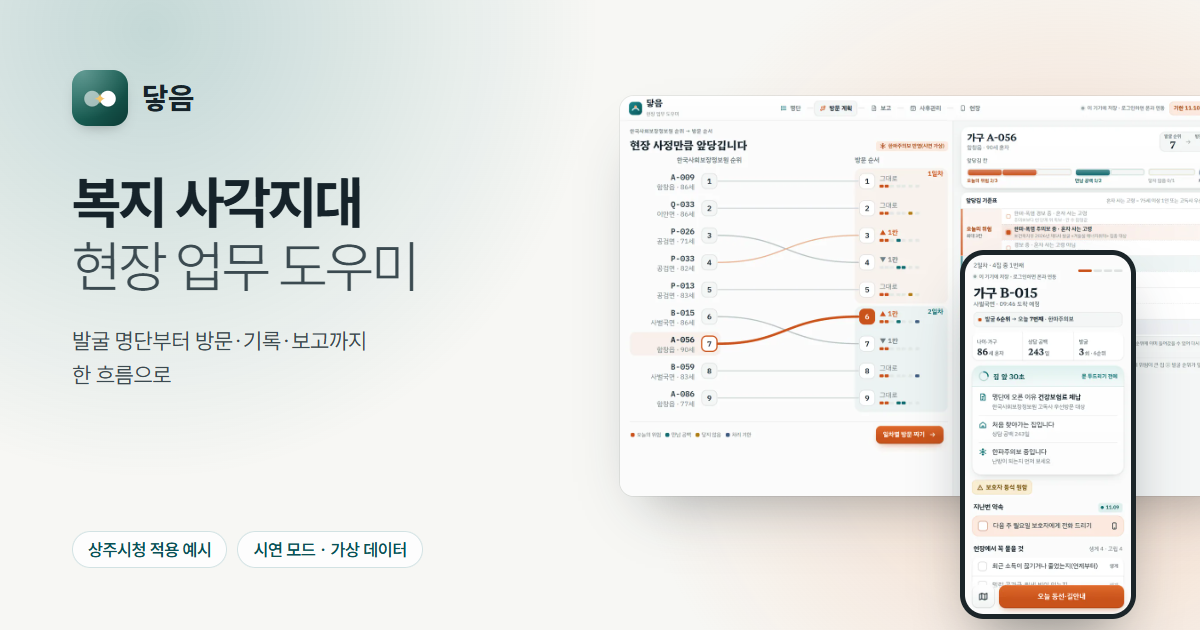
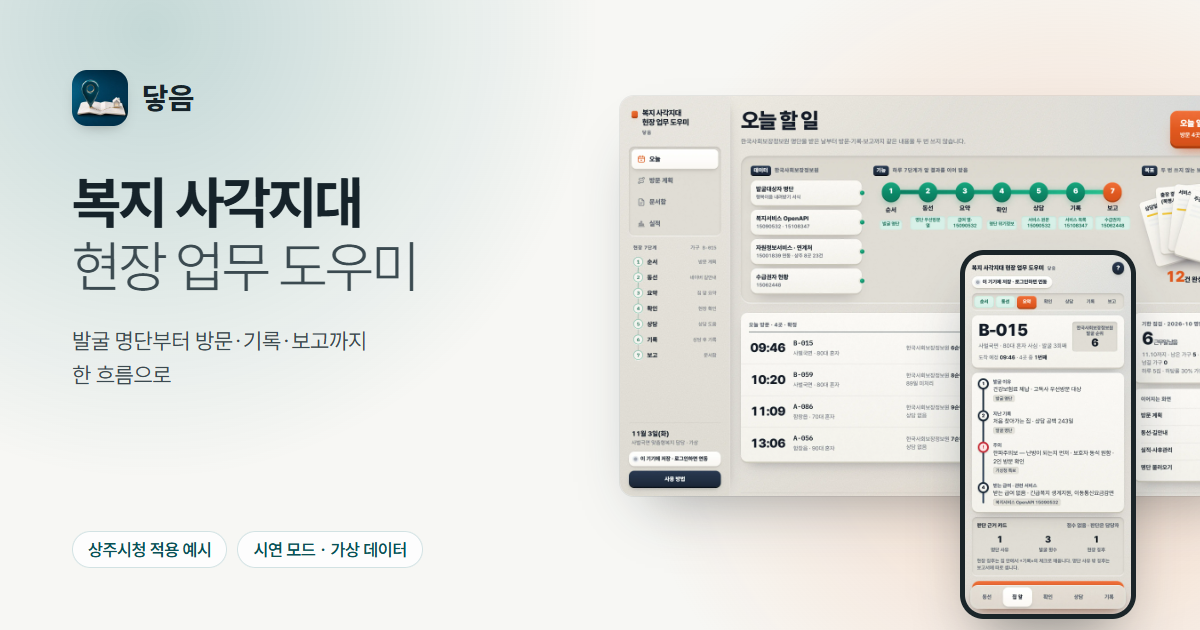
닿음 랜딩: 공유 대표 그림(OG)을 새 앱 아이콘 «찾아가는 길»로 갱신, 새 파일명으로 메신저 캐시 회피(주소·디자인 불변)

Changed region(s): [[0.4933, 0.1508, 1.0, 0.9952], [0.0617, 0.0905, 0.1233, 0.2111]]

diff --git a/daeum/index.html b/daeum/index.html
@@ -352,7 +352,7 @@ footer .row{display:flex;justify-content:space-between;gap:16px;flex-wrap:wrap;b
   .js .rv,.js .fade{opacity:1;transform:none}
 }
 </style>
-<meta property="og:type" content="website"><meta property="og:site_name" content="닿음"><meta property="og:title" content="닿음 — 복지 사각지대 현장 업무 도우미"><meta property="og:description" content="한국사회보장정보원 발굴 명단을 받은 날부터 처리 기한·방문 순서·현장 메모·결재 보고·사후관리까지 한 흐름으로 잇는 복지 담당 공무원 전용 도구. 같은 계정이면 PC↔폰 실시간 연동. 상주시청 적용 예시 · 시연 모드 · 가상 데이터."><meta property="og:url" content="https://hcyang572-gif.github.io/apps/daeum/"><meta property="og:image" content="https://hcyang572-gif.github.io/apps/og/daeum-1200x630.png"><meta property="og:image:width" content="1200"><meta property="og:image:height" content="630"><meta name="twitter:card" content="summary_large_image"><meta name="twitter:image" content="https://hcyang572-gif.github.io/apps/og/daeum-1200x630.png"><meta property="og:image:alt" content="닿음 — 복지 사각지대 현장 업무 도우미 — 한국사회보장정보원 발굴 명단을 받은 날부터 처리 기한·방문 순서·현장 메모·결재 보고·사후관리까지 한 흐름으로 잇는 복지 담당 공무원 전용 도구. 같은 계정이면 PC↔폰 실시간 연동. 상주시청 적용 예시 · 시연 모드 · 가상 데이터."><link rel="canonical" href="https://hcyang572-gif.github.io/apps/daeum/"></head>
+<meta property="og:type" content="website"><meta property="og:site_name" content="닿음"><meta property="og:title" content="닿음 — 복지 사각지대 현장 업무 도우미"><meta property="og:description" content="한국사회보장정보원 발굴 명단을 받은 날부터 처리 기한·방문 순서·현장 메모·결재 보고·사후관리까지 한 흐름으로 잇는 복지 담당 공무원 전용 도구. 같은 계정이면 PC↔폰 실시간 연동. 상주시청 적용 예시 · 시연 모드 · 가상 데이터."><meta property="og:url" content="https://hcyang572-gif.github.io/apps/daeum/"><meta property="og:image" content="https://hcyang572-gif.github.io/apps/og/daeum-s12k-1200x630.png"><meta property="og:image:width" content="1200"><meta property="og:image:height" content="630"><meta name="twitter:card" content="summary_large_image"><meta name="twitter:image" content="https://hcyang572-gif.github.io/apps/og/daeum-s12k-1200x630.png"><meta property="og:image:alt" content="닿음 — 복지 사각지대 현장 업무 도우미 — 한국사회보장정보원 발굴 명단을 받은 날부터 처리 기한·방문 순서·현장 메모·결재 보고·사후관리까지 한 흐름으로 잇는 복지 담당 공무원 전용 도구. 같은 계정이면 PC↔폰 실시간 연동. 상주시청 적용 예시 · 시연 모드 · 가상 데이터."><link rel="canonical" href="https://hcyang572-gif.github.io/apps/daeum/"></head>
 <body>
 <script>document.documentElement.classList.add('js')</script>
 <div class="mesh" aria-hidden="true"><i class="m1"></i><i class="m2"></i><i class="m3"></i></div>
